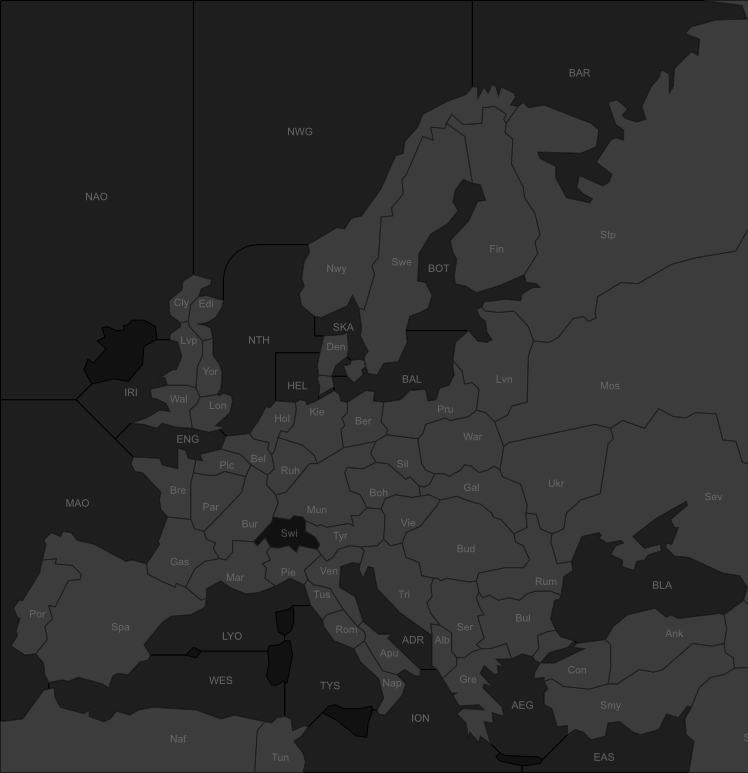
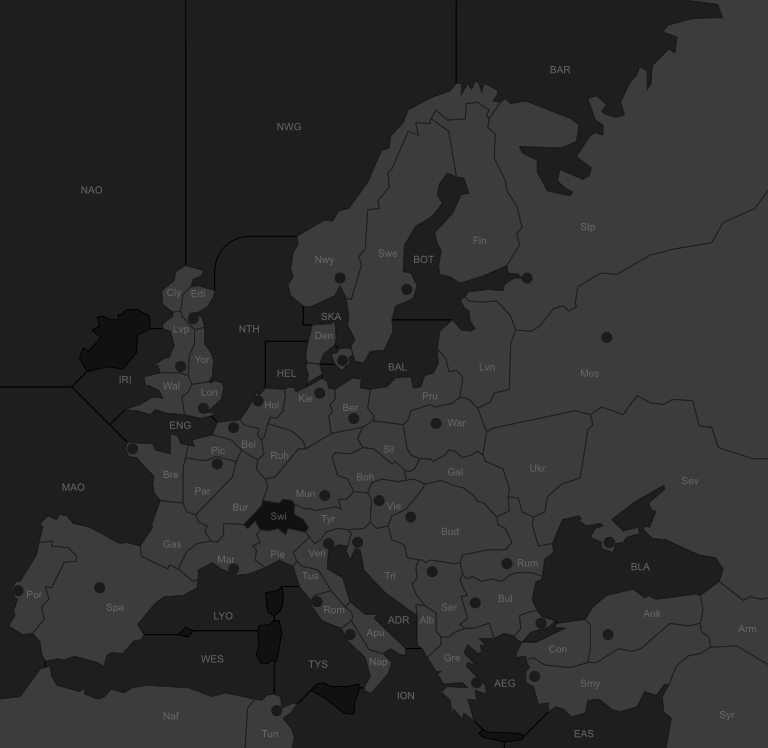
dark theme map with sprites :)

diff --git a/public/scripts/client/templates.js b/public/scripts/client/templates.js
@@ -17,7 +17,7 @@ window.T["games"].r = function(cx,p){var c = [cx];var b = "";var _ = this;b += "
 window.T["map"] = new HoganTemplate();
 window.T["map"].r = function(cx,p){var c = [cx];var b = "";var _ = this;if(_.s(_.f("units",c,p,1),c,p,0,10,61)){b += _.rs(c,p,function(c,p){ var b = "";b += "<li>";b += "\n";b += "  ";b += (_.v(_.f("owner",c,p,0)));b += "\n";b += "  ";b += (_.v(_.f("utype",c,p,0)));b += "\n";b += "  ";b += (_.v(_.f("province",c,p,0)));b += "\n";b += "</li>";b += "\n";return b;});c.pop();}else{b += _.b; _.b = ""};return b;;}
 window.T["map_unit"] = new HoganTemplate();
-window.T["map_unit"].r = function(cx,p){var c = [cx];var b = "";var _ = this;b += "<div class=\"unit ";b += (_.v(_.f("utype",c,p,0)));b += "\" style=\"top: ";b += (_.v(_.f("top",c,p,0)));b += "; left: ";b += (_.v(_.f("left",c,p,0)));b += "; background-color: ";b += (_.v(_.f("color",c,p,0)));b += ";\">";b += "\n";b += "</div>";return b;;}
+window.T["map_unit"].r = function(cx,p){var c = [cx];var b = "";var _ = this;b += "<div class=\"unit ";b += (_.v(_.f("utype",c,p,0)));b += "\" style=\"top: ";b += (_.v(_.f("top",c,p,0)));b += "; left: ";b += (_.v(_.f("left",c,p,0)));b += "; background-position-x: -";b += (_.v(_.f("sprite",c,p,0)));b += "px\">";b += "\n";b += "</div>";return b;;}
 window.T["message"] = new HoganTemplate();
 window.T["message"].r = function(cx,p){var c = [cx];var b = "";var _ = this;b += "<span class='username'>";b += (_.v(_.f("username",c,p,0)));b += ": </span>";b += "\n";b += "<span class='content'>";b += (_.v(_.f("content",c,p,0)));b += "</span>";return b;;}
 window.T["order_submit"] = new HoganTemplate();

diff --git a/public/scripts/client/view/board.js b/public/scripts/client/view/board.js
@@ -73,15 +73,17 @@ define(['scripts/client/bootstrap.js'], function(){
     initialize: function(target, unit){//unit: {owner: "Ger",province:"Ber",utype:"a"}
       this.unit = unit;
       var loc = window.MAP_COORDS[unit.province]
-      var top, left, color;
-      if(loc!=undefined)
-      {
-        top= loc[1] + "px",
-        left= loc[0] + "px",
-        color= window.MAP_COLORS[unit.owner]
+      var top, left, color, sprite;
+      if(loc!=undefined){
+        top = loc[1] + "px";
+        left = loc[0] + "px";
+        if(unit.utype == 'f')
+          sprite = window.FLEET_SPRITE[unit.owner];
+        else
+          sprite = window.ARMY_SPRITE[unit.owner];
       }
 
-      $(this.el).html(this.template.r({top:top,left:left,color:color,utype:unit.utype}));
+      $(this.el).html(this.template.r({top:top,left:left,sprite:sprite,utype:unit.utype}));
 
       $(target).append(this.el);
     },

diff --git a/public/scripts/client/helper/map_coord.js b/public/scripts/client/helper/map_coord.js
@@ -91,4 +91,22 @@ define([], function(){
     Rus: 'white',
     Tur: 'brown'
   }
+  window.ARMY_SPRITE = {
+    Aus: 0,
+    Eng: 11,
+    Fra: 22,
+    Ger: 33,
+    Ita: 44,
+    Rus: 55,
+    Tur: 66
+  },
+  window.FLEET_SPRITE = {
+    Aus: 0,
+    Eng: 20,
+    Fra: 39,
+    Ger: 60,
+    Ita: 78,
+    Rus: 99,
+    Tur: 118
+  }
 });

diff --git a/public/scripts/client/template/map_unit.m b/public/scripts/client/template/map_unit.m
@@ -1,2 +1,2 @@
-<div class="unit {{utype}}" style="top: {{top}}; left: {{left}}; background-color: {{color}};">
+<div class="unit {{utype}}" style="top: {{top}}; left: {{left}}; background-position-x: -{{sprite}}px">
 </div>
